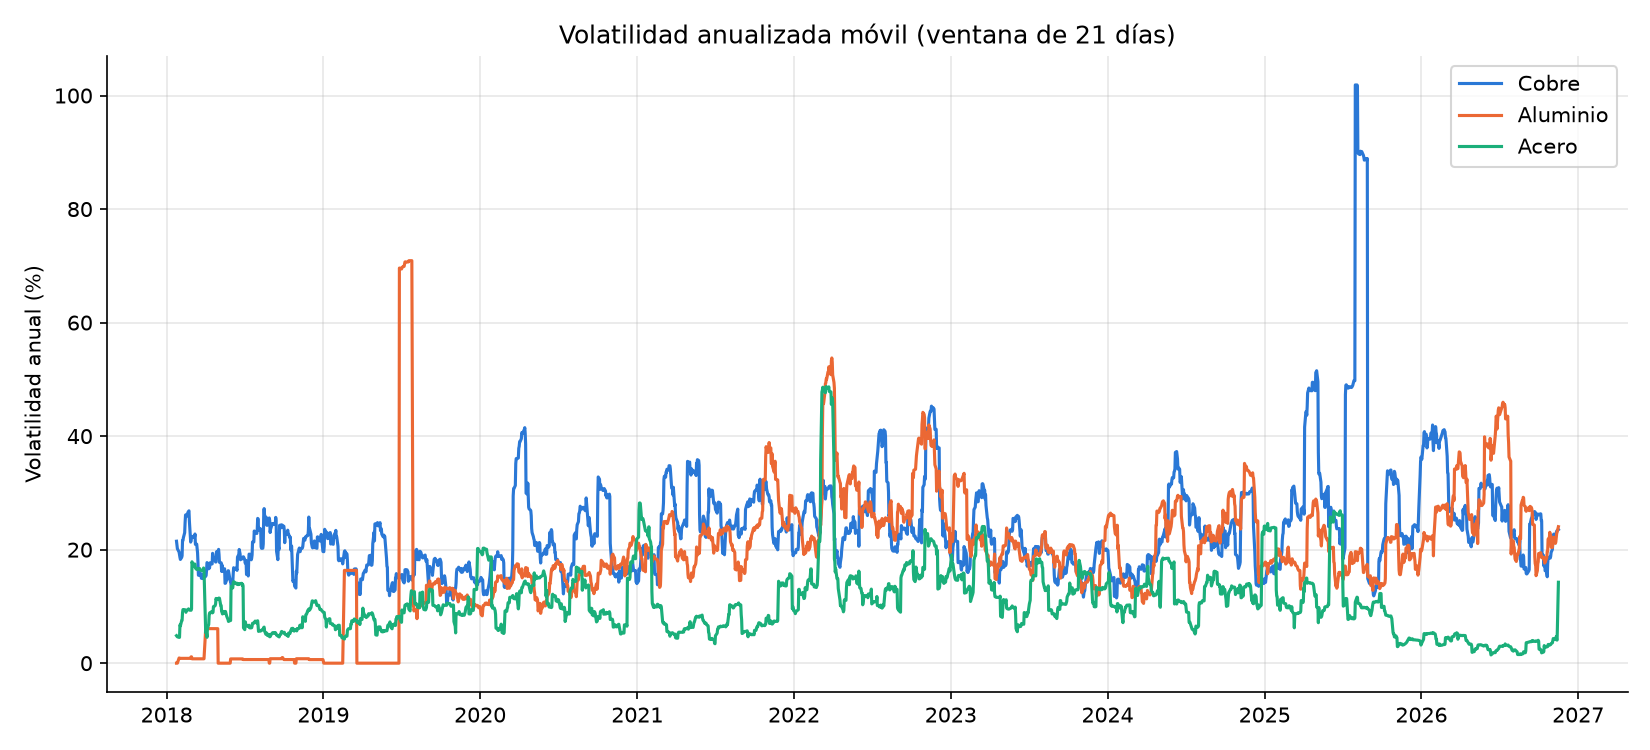
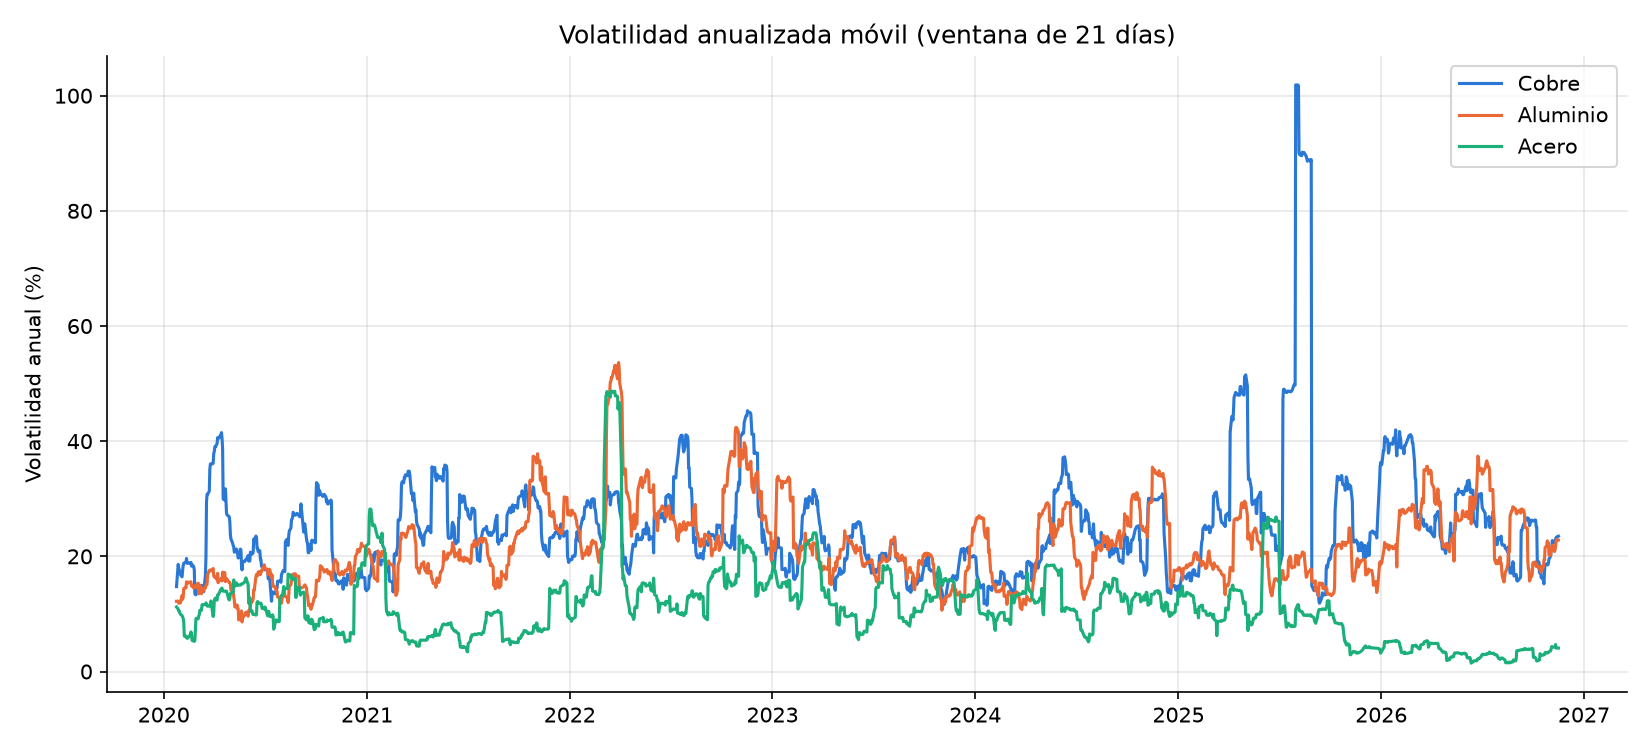
Detectar rolls de acero y aluminio, descarga robusta y análisis desde 2020

diff --git a/src/riesgo.py b/src/riesgo.py
@@ -4,6 +4,7 @@ import pandas as pd
 from src.data import descargar_precios
 
 DIAS_HABILES_ANO = 252
+METALES_CON_ROLL = ["Aluminio", "Acero"]
 
 
 def calcular_rentabilidades(precios: pd.DataFrame) -> pd.DataFrame:
@@ -15,22 +16,48 @@ def calcular_rentabilidades(precios: pd.DataFrame) -> pd.DataFrame:
     return rentabilidades
 
 
-def quitar_rolls_acero(rent: pd.DataFrame) -> pd.DataFrame:
-    """Elimina la rentabilidad del acero el último miércoles de cada mes.
+def dias_de_roll(fechas: pd.DatetimeIndex, metal: str) -> np.ndarray:
+    """Devuelve True en los días en que Yahoo cambia de contrato en el futuro continuo.
 
-    Ese día Yahoo cambia de contrato en HRC=F, y el salto de precio
-    no es un movimiento real del mercado.
+    - Acero (HRC): el contrato deja de cotizar el día hábil anterior al último
+      miércoles del mes, así que el cambio aparece el primer día de mercado
+      a partir de ese miércoles.
+    - Aluminio y cobre (ALI, HG): el contrato vence el antepenúltimo día hábil
+      del mes, así que el cambio aparece el penúltimo día hábil.
+
+    El último mes de los datos se ignora porque puede estar incompleto.
     """
+    mes = fechas.to_period("M")
+    es_roll = np.zeros(len(fechas), dtype=bool)
+
+    for periodo in mes.unique()[:-1]:
+        # Posiciones (0, 1, 2...) de los días de mercado de ese mes
+        pos = np.where(mes == periodo)[0]
+
+        if metal == "Acero":
+            # Buscar el último miércoles del mes yendo hacia atrás desde el último día
+            ultimo_miercoles = periodo.end_time.normalize()
+            while ultimo_miercoles.day_of_week != 2:
+                ultimo_miercoles -= pd.Timedelta(days=1)
+            # Primer día de mercado a partir de ese miércoles (por si es festivo)
+            despues = pos[fechas[pos] >= ultimo_miercoles]
+            if len(despues) > 0:
+                es_roll[despues[0]] = True
+        elif len(pos) >= 3:
+            # Penúltimo día de mercado del mes
+            es_roll[pos[-2]] = True
+
+    return es_roll
+
+
+def quitar_rolls(rent: pd.DataFrame) -> pd.DataFrame:
+    """Marca como "sin dato" (NaN) la rentabilidad de los días de cambio de contrato."""
     fechas = pd.DatetimeIndex(rent.index)
-    # 1. ¿Es miércoles? (lunes=0, martes=1, miércoles=2...)
-    es_miercoles = fechas.day_of_week == 2
-    # 2. ¿Es la última semana del mes? Si dentro de 7 días ya es otro mes, sí
-    ultima_semana = (fechas + pd.Timedelta(days=7)).month != fechas.month
-    # 3. Último miércoles = las dos condiciones a la vez
-    es_roll = es_miercoles & ultima_semana
-    # 4. Copiar la tabla y marcar esos días del acero como "sin dato"
+    # Copiar la tabla para no modificar la original
     rent = rent.copy()
-    rent.loc[es_roll, "Acero"] = np.nan
+    for metal in METALES_CON_ROLL:
+        es_roll = dias_de_roll(fechas, metal)
+        rent.loc[es_roll, metal] = np.nan
     return rent
 
 
@@ -46,16 +73,35 @@ def volatilidad_movil(rent: pd.DataFrame, ventana: int = 21) -> pd.DataFrame:
 
 
 if __name__ == "__main__":
-    precios = descargar_precios("2018-01-01")
-    rent = quitar_rolls_acero(calcular_rentabilidades(precios))
+    precios = descargar_precios("2020-01-01")
+    rent = calcular_rentabilidades(precios)
 
-    print("Volatilidad anual (%):")
+    # Comprobación: ¿los días de roll se mueven más que el resto?
+    print("Movimiento medio |rentabilidad| (%): días de roll vs resto de días")
+    fechas = pd.DatetimeIndex(rent.index)
+    for metal in ["Cobre", "Aluminio", "Acero"]:
+        es_roll = dias_de_roll(fechas, metal)
+        en_roll = rent.loc[es_roll, metal].abs().mean() * 100
+        resto = rent.loc[~es_roll, metal].abs().mean() * 100
+        print(f"  {metal:9s} roll: {en_roll:.2f}%   resto: {resto:.2f}%")
+
+    rent_limpia = quitar_rolls(rent)
+    print("\nDías eliminados por metal:")
+    print(rent_limpia.isna().sum())
+
+    print("\nVolatilidad anual ANTES de quitar rolls (%):")
     print((volatilidad_anual(rent) * 100).round(1))
+    print("\nVolatilidad anual DESPUÉS de quitar rolls (%):")
+    print((volatilidad_anual(rent_limpia) * 100).round(1))
 
-    vol_movil = volatilidad_movil(rent)
+    vol_movil = volatilidad_movil(rent_limpia)
     print("\nVolatilidad móvil MÁXIMA (%):")
     print((vol_movil.max() * 100).round(1))
     print("\nFecha de la volatilidad móvil máxima:")
     print(vol_movil.idxmax())
-    print("\nVolatilidad móvil HOY (%):")
-    print((vol_movil.iloc[-1] * 100).round(1))
+
+    print("\nDías con |rentabilidad| > 8% tras limpiar:")
+    for metal in ["Cobre", "Aluminio", "Acero"]:
+        serie = rent_limpia[metal]
+        print(f"\n{metal}:")
+        print(serie[serie.abs() > 0.08])

diff --git a/src/data.py b/src/data.py
@@ -1,5 +1,7 @@
-import yfinance as yf
+from datetime import date
+
 import pandas as pd
+import yfinance as yf
 
 TICKERS = {
     "Cobre": "HG=F",
@@ -12,18 +14,25 @@ def descargar_precios(inicio: str) -> pd.DataFrame:
     """Devuelve un DataFrame con fechas como índice y una columna por metal."""
     # 1. Pedir los datos a Yahoo
     datos = yf.download(["HG=F", "ALI=F", "HRC=F"], start=inicio, progress=False)
-    if datos is None:
+    # Si Yahoo falla, unas veces devuelve None y otras una tabla vacía: se comprueban las dos
+    if datos is None or datos.empty:
         raise ValueError("No se han podido descargar los precios de Yahoo Finance")
     # 2. Solo nos interesa el cierre
     datos = pd.DataFrame(datos["Close"])
     # 3. Poner nombres legibles
     datos = datos.rename(columns={"HG=F": "Cobre", "ALI=F": "Aluminio", "HRC=F": "Acero"})
-    # 4. Quitar días incompletos
+    # 4. Quitar el día de hoy: el mercado aún no ha cerrado y el precio no es definitivo
+    datos = pd.DataFrame(datos[datos.index < pd.Timestamp(date.today())])
+    # 5. Quitar días incompletos
     datos = datos.dropna()
+    # 6. Si un metal ha fallado, su columna estaba vacía y el dropna habrá borrado todo
+    if datos.empty:
+        raise ValueError("Falta al menos un metal en la descarga de Yahoo Finance")
     return datos
 
 
 if __name__ == "__main__":
-    precios = descargar_precios("2018-01-01")
+    precios = descargar_precios("2020-01-01")
+    fechas = pd.DatetimeIndex(precios.index)
     print(precios.tail())
-    print(f"\nFilas: {len(precios)}  |  Desde {precios.index[0].date()} hasta {precios.index[-1].date()}")
+    print(f"\nFilas: {len(precios)}  |  Desde {fechas[0].date()} hasta {fechas[-1].date()}")

diff --git a/src/graficos.py b/src/graficos.py
@@ -3,7 +3,7 @@ import pandas as pd
 from matplotlib.figure import Figure
 
 from src.data import descargar_precios
-from src.riesgo import calcular_rentabilidades, quitar_rolls_acero, volatilidad_movil
+from src.riesgo import calcular_rentabilidades, quitar_rolls, volatilidad_movil
 
 # Un color fijo por metal: el cobre siempre azul, en todos los gráficos
 COLORES = {"Cobre": "#2a78d6", "Aluminio": "#eb6834", "Acero": "#1baf7a"}
@@ -34,8 +34,8 @@ def grafico_volatilidad_movil(vol_movil: pd.DataFrame) -> Figure:
 
 
 if __name__ == "__main__":
-    precios = descargar_precios("2018-01-01")
-    rent = quitar_rolls_acero(calcular_rentabilidades(precios))
+    precios = descargar_precios("2020-01-01")
+    rent = quitar_rolls(calcular_rentabilidades(precios))
     vol_movil = volatilidad_movil(rent)
 
     fig = grafico_volatilidad_movil(vol_movil)
